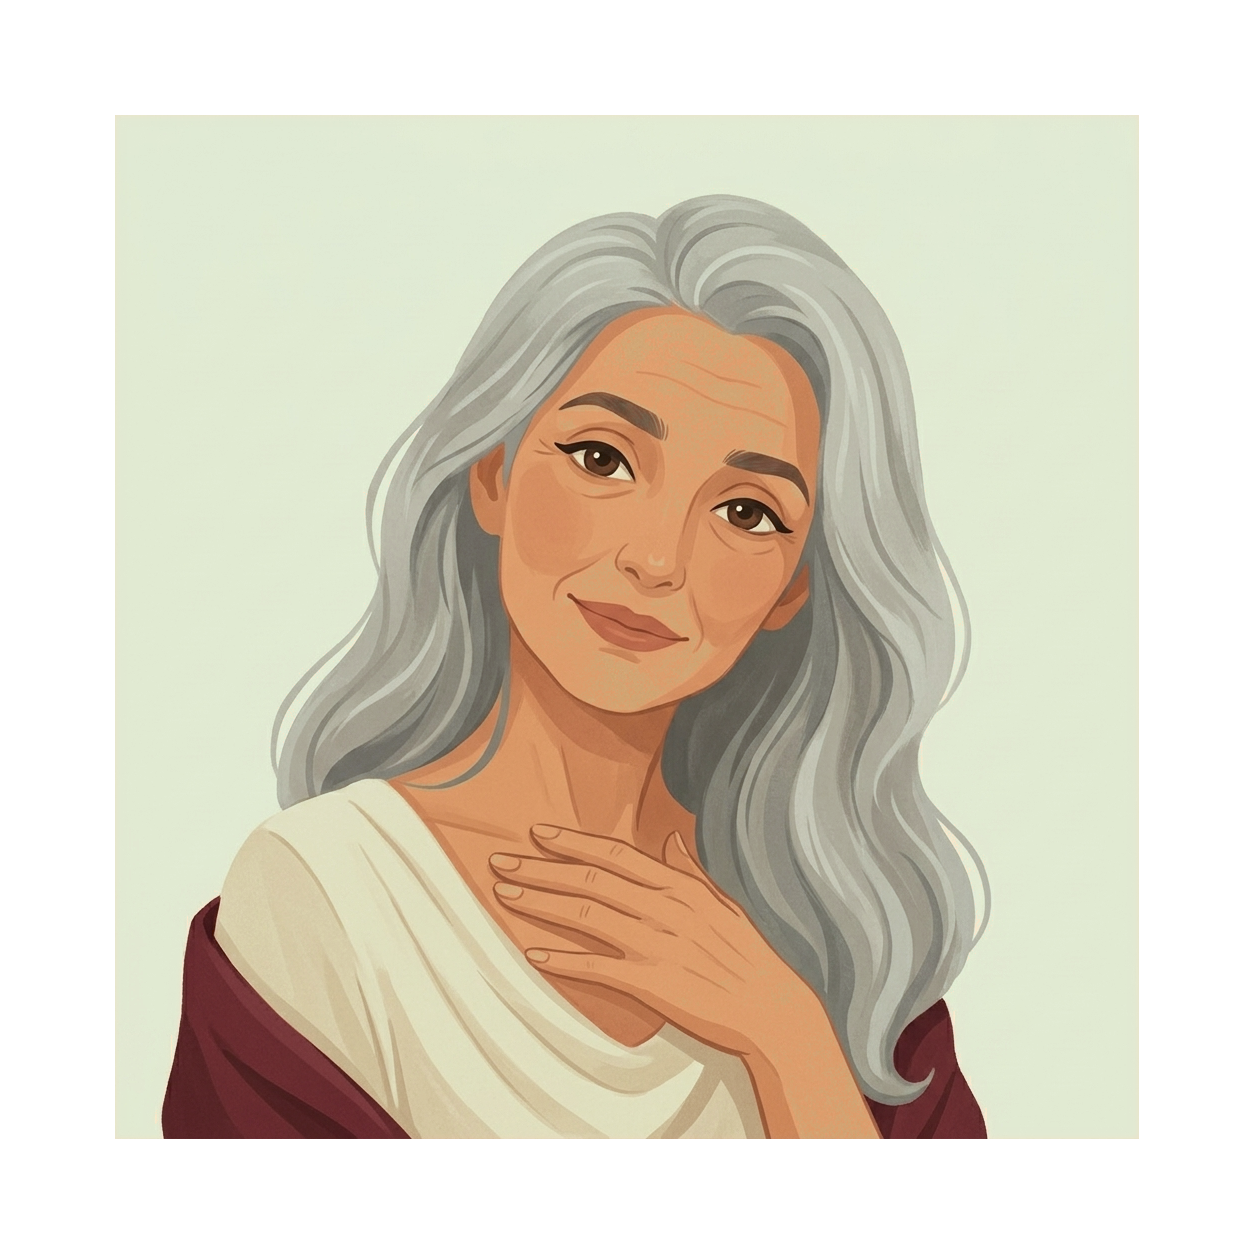
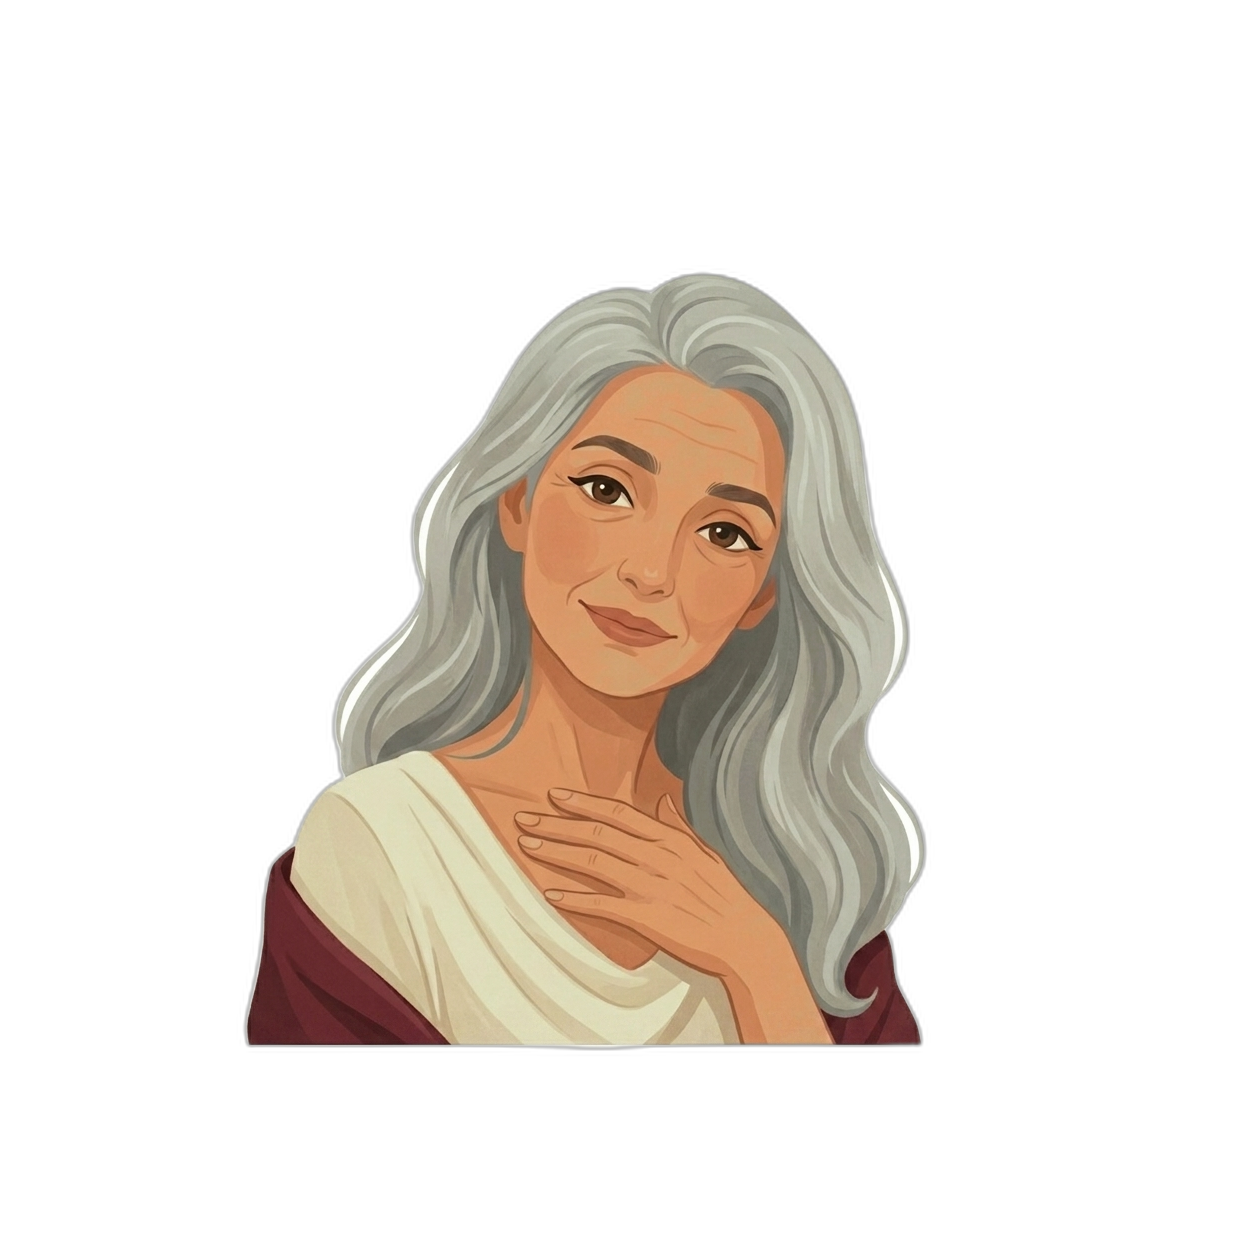
feat: final batch 3 regens — Selene, Juno, Wren, Cyrus
- Selene: rembg human_seg bg cutout, preserves silver hair
- Juno: rembg human_seg bg cutout (clean white bg, pencil artifact flagged)
- Wren: rembg human_seg bg cutout, warm tan jacket (no bright pink)
- Cyrus: top-corner chroma key (cardigan 100% preserved), 60.7% opaque
- Sage/Eli/Soren/Amara/Thea: locked (5 done)

diff --git a/client/assets/avatars/batch2/notes.md b/client/assets/avatars/batch2/notes.md
@@ -84,12 +84,13 @@ Grading: Pending — run rubric via vision AI
 - Skin tones: pale → deep (Soren pale, Wren light, Amara wheatish, Eli warm brown, Selene olive, Cyrus olive-deep, Juno golden, Sage deep, Thea deep)
 - Age range: 25+ (Sage, Amara, Eli, Juno, Thea, Wren) · 50s–60s (Selene, Cyrus) · 25+ androgynous/masc (Soren)
 
-## Batch 3 Completed (2026-07-09)
-All 9 images processed per companion-avatar-batch-3-handoff.md.
-- **Regens** (Cyrus, Juno, Sage, Wren): user-generated with thea.png + anchor as dual refs, rembg bg removal, pad 1024→1254. No magenta fringes.
-- **Refines** (Eli, Soren): user-generated new versions, ✦ sparkle watermark detected & inpainted (bright-pixel cluster removal via scipy), rembg bg removal, pad 1024→1254. Eli: 24 sparkle pixels in 14 clusters (largest near x=667,y=287 — left elbow). Soren: 23 sparkle pixels in 5 clusters (largest 18-pixel cluster at x=460,y=344 — left sleeve).
-- **Selene**: skin warmth reduced (R mean 219→205, G mean 199→207, B mean 174→184; warmth delta 44.7→21.7 on skin pixels via scipy gaussian-feathered blend).
-- **Locks** (Thea, Amara): kept as-is.
+## Final Batch (2026-07-09) — User review pass
+Fresh regens from user for Selene, Juno, Wren, Cyrus. Sage + Eli + Soren + Amara + Thea locked (5 done ✅).
+
+- **Selene**: new regen, rembg u2net_human_seg bg cutout (white bg). 37.9% opaque at 1024² → 25.3% at 1254² padded. No chroma key (silver hair too close to white).
+- **Juno**: new regen, rembg u2net_human_seg bg cutout (white bg). 37.6% opaque → 25.0% padded. Note: ~49k wood-toned pixels in hand region (likely a pencil artifact from generator — flagged for user).
+- **Wren**: new regen, rembg u2net_human_seg bg cutout (white bg). 35.3% opaque → 23.5% padded. Jacket reads warm tan (RGB 214,157,124), no bright pink detected.
+- **Cyrus**: new regen (896x1200, cream top bg). Chroma key with top-corner sampling only (bottom corners are brown cardigan). Tolerance 55, cardigan 100% preserved. 60.7% opaque at original size → 41.5% at 1254² padded.
 
 ## To Do
 - [ ] Fill iteration counts per avatar
